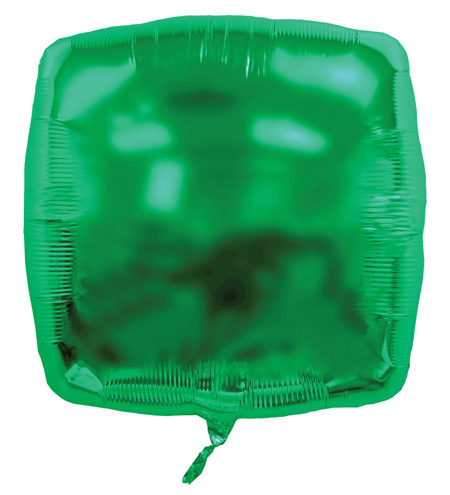
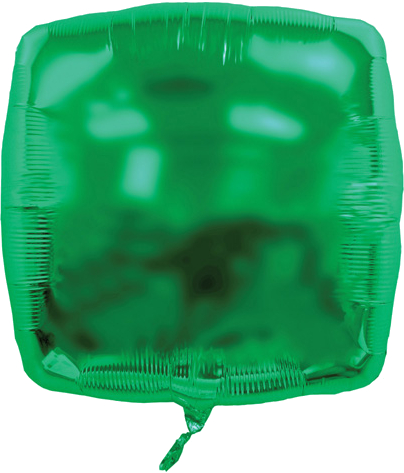
added small balloon image

diff --git a/src/core/PaintPanel.java b/src/core/PaintPanel.java
@@ -40,7 +40,8 @@ public class PaintPanel extends JPanel{
 		//drawBalloon
 		Balloon balloon = model.getBalloon();
 		if(balloon != null)
-			g.drawRect(balloon.getxPos(), balloon.getyPos(), balloon.getWidth(), balloon.getHeight());
+			//g.fillRect(balloon.getxPos(), balloon.getyPos(), balloon.getWidth(), balloon.getHeight());
+			g.drawImage(model.getTheme().getBalloonImg(), balloon.getxPos(), balloon.getyPos(), null);
 		if(firstPrint == true || model.isGameOver() == true){
 			firstPrint = false;
 			view.drawDiffPop();		

diff --git a/src/core/Theme.java b/src/core/Theme.java
@@ -23,8 +23,10 @@ public class Theme {
 			Sky = ImageIO.read(new File("16BitSkyCropped.jpg"));
 			Cloud = ImageIO.read(new File("CloudCropped.jpg"));
 			MorningSky = ImageIO.read(new File("MorningSkyCropped.jpg"));
-			greenBalloon = ImageIO.read(new File("greenBalloon.jpg"));
-		}catch (IOException e){ }
+			greenBalloon = ImageIO.read(new File("greenBalloon.png"));
+		}catch (IOException e){ 
+			System.out.println("IOException caught: " + e);
+			}
 		changeTheme(1);
 	}
 	public void changeTheme(int themeInt){

diff --git a/src/core/AntagonistGenerator.java b/src/core/AntagonistGenerator.java
@@ -18,7 +18,7 @@ public class AntagonistGenerator {
 		this.panelHeight = panelHeight;
 		minWindow = panelHeight / 3;
 		maxHeight = panelHeight - minWindow;
-		antagonistWidth = panelHeight / 12;
+		antagonistWidth = 50;
 		rand = new Random();
 	}
 	public ArrayList<Antagonist> getAntList(){
